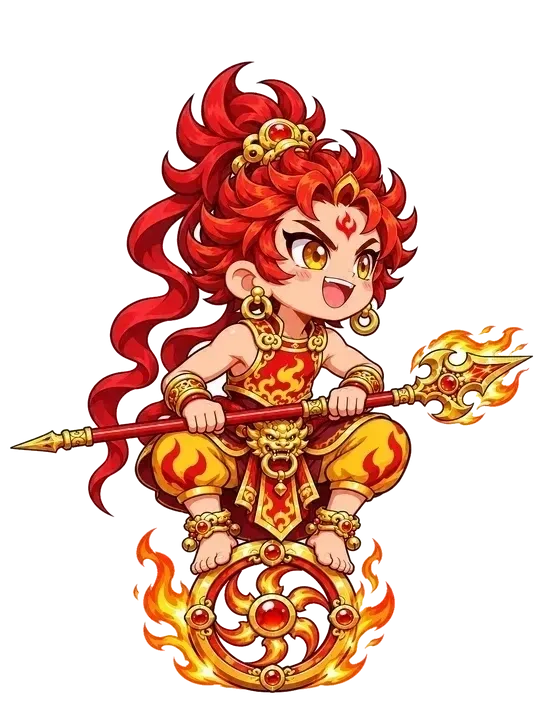
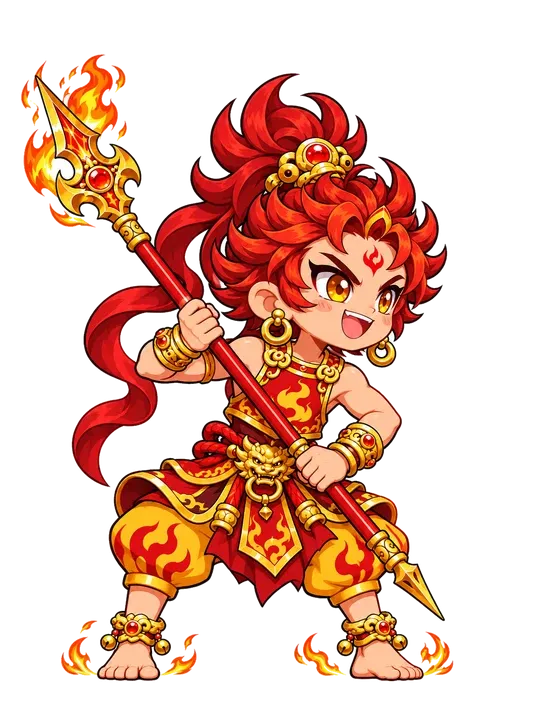
Sua Hong Hai Nhi dung nguyen tac (bo banh xe lua), sua Kim Giac

diff --git a/art/poses/hmeta.js b/art/poses/hmeta.js
@@ -1,1 +1,1 @@
-window.HPOSE = {"loichantu": {"H": 1201.8, "gnd": [660, 1395], "top": 0.015}, "thohanhton": {"H": 1196.0, "gnd": [512, 1387], "top": 0.033}, "thaiatchannhan": {"H": 1185.3, "gnd": [573, 1335], "top": 0.079}, "thancongbao": {"H": 1182.4, "gnd": [657, 1321], "top": 0.072}, "longnu": {"H": 1303.7, "gnd": [567, 1398], "top": 0.026}, "kimgiac": {"H": 1298.8, "gnd": [578, 1309], "top": 0.0}, "tieubachlong": {"H": 1265.8, "gnd": [517, 1412], "top": 0.018}, "thaibachkimtinh": {"H": 1135.9, "gnd": [604, 1321], "top": 0.106}, "culinhthan": {"H": 1254.2, "gnd": [575, 1394], "top": 0.026}, "hoangphongquai": {"H": 1087.4, "gnd": [479, 1364], "top": 0.026}, "khuongtanha": {"H": 1377.4, "gnd": [570, 1429], "top": 0.008}, "trieucongminh": {"H": 1368.7, "gnd": [572, 1420], "top": 0.007}, "bachcot": {"H": 1371.6, "gnd": [574, 1423], "top": 0.008}, "bodetosu": {"H": 1372.5, "gnd": [563, 1426], "top": 0.01}, "tranguyentu": {"H": 1327.9, "gnd": [551, 1403], "top": 0.025}, "hoangphiho": {"H": 1167.9, "gnd": [519, 1358], "top": 0.064}, "dienmau": {"H": 1308.5, "gnd": [543, 1398], "top": 0.035}, "thanhnguutinh": {"H": 1287.2, "gnd": [502, 1387], "top": 0.043}, "longvuong": {"H": 1262.0, "gnd": [591, 1418], "top": 0.01}, "dangthienngoc": {"H": 1246.5, "gnd": [535, 1378], "top": 0.066}, "kimtra": {"H": 1344.4, "gnd": [540, 1409], "top": 0.017}, "hachhung": {"H": 1286.2, "gnd": [533, 1387], "top": 0.047}, "thodia": {"H": 1212.5, "gnd": [479, 1341], "top": 0.066}, "giaochu": {"H": 1034.0, "gnd": [506, 1437], "top": 0.191}, "khongtuyen": {"H": 1276.5, "gnd": [568, 1423], "top": 0.019}, "nhiendang": {"H": 1207.6, "gnd": [467, 1367], "top": 0.026}, "thaisu": {"H": 1356.1, "gnd": [556, 1418], "top": 0.015}, "hoangmi": {"H": 1227.0, "gnd": [528, 1367], "top": 0.072}, "vanthu": {"H": 1276.5, "gnd": [538, 1395], "top": 0.015}, "quynhtieu": {"H": 1240.6, "gnd": [517, 1367], "top": 0.064}, "hoangthienhoa": {"H": 1375.5, "gnd": [555, 1432], "top": 0.012}, "viho": {"H": 1386.1, "gnd": [563, 1435], "top": 0.006}, "thachco": {"H": 1165.9, "gnd": [445, 1347], "top": 0.102}, "giaochu_s2": {"H": 1038, "gnd": [516, 1447], "top": 0.04}, "thailaoquan_s2": {"H": 1107, "gnd": [533, 1439], "top": 0.106}, "thailaoquan": {"H": 1106.8, "gnd": [534, 1439], "top": 0.164}, "hongquan": {"H": 1275.5, "gnd": [522, 1412], "top": 0.018}, "nguyenthuy": {"H": 1010.7, "gnd": [551, 1423], "top": 0.198}, "ngochoang": {"H": 1327.9, "gnd": [519, 1417], "top": 0.021}, "dilac": {"H": 1022.4, "gnd": [516, 1278], "top": 0.135}, "quangthanh": {"H": 1329.9, "gnd": [502, 1423], "top": 0.014}, "kimlinh": {"H": 1304.6, "gnd": [510, 1412], "top": 0.012}, "chanvu": {"H": 1107.7, "gnd": [557, 1338], "top": 0.086}, "vuongmau": {"H": 1330.8, "gnd": [502, 1417], "top": 0.011}, "phohien": {"H": 1318.2, "gnd": [465, 1418], "top": 0.003}, "daibang": {"H": 1179.5, "gnd": [489, 1361], "top": 0.04}, "ngocdinh": {"H": 1336.7, "gnd": [556, 1423], "top": 0.007}, "hoangbao": {"H": 1303.7, "gnd": [471, 1429], "top": 0.022}, "bachnhan": {"H": 1330.8, "gnd": [550, 1423], "top": 0.011}, "hattu": {"H": 1327.0, "gnd": [494, 1401], "top": 0.019}, "moctra": {"H": 1167.9, "gnd": [553, 1344], "top": 0.081}, "nganggiac": {"H": 1266.8, "gnd": [563, 1384], "top": 0.035}, "loicong": {"H": 1243.5, "gnd": [529, 1375], "top": 0.036}, "ngoctho": {"H": 1308.5, "gnd": [528, 1415], "top": 0.006}, "maonhat": {"H": 1223.2, "gnd": [535, 1360], "top": 0.028}, "linhcam": {"H": 1172.7, "gnd": [642, 1361], "top": 0.072}, "ngokhong": {"H": 1359.9, "gnd": [580, 1400], "top": 0.062}, "batgioi": {"H": 1476.0, "gnd": [615, 1421], "top": 0.017}, "nata": {"H": 1447.8, "gnd": [560, 1418], "top": 0.0}, "ngumavuong": {"H": 1306.8, "gnd": [620, 1410], "top": 0.012}, "honghainhi": {"H": 1260.4, "gnd": [560, 1405], "top": 0.0}, "quanam": {"H": 1144.3, "gnd": [560, 1440], "top": 0.0}, "datky": {"H": 1354.9, "gnd": [560, 1415], "top": 0.008}, "duongtang": {"H": 1434.5, "gnd": [570, 1410], "top": 0.012}, "duongtien": {"H": 1069.7, "gnd": [520, 1295], "top": 0.066}, "vantieu": {"H": 1401.3, "gnd": [560, 1415], "top": 0.006}, "satang": {"H": 1417.9, "gnd": [560, 1415], "top": 0.012}, "thietphien": {"H": 1369.8, "gnd": [560, 1416], "top": 0.015}, "litinh": {"H": 1353.2, "gnd": [560, 1416], "top": 0.007}, "hangnga": {"H": 1343.3, "gnd": [560, 1415], "top": 0.008}, "nuoa": {"H": 1243.5, "gnd": [532, 1361], "top": 0.023}, "tiepdan": {"H": 1124.2, "gnd": [545, 1359], "top": 0.075}, "chuande": {"H": 1261.0, "gnd": [458, 1425], "top": 0.039}, "nhulai": {"H": 1248.4, "gnd": [543, 1441], "top": 0.029}, "phuchy": {"H": 1245.5, "gnd": [496, 1381], "top": 0.04}, "thannong": {"H": 1194.1, "gnd": [496, 1358], "top": 0.066}, "hienvien": {"H": 1241.6, "gnd": [601, 1423], "top": 0.021}, "dabao": {"H": 1320.2, "gnd": [510, 1398], "top": 0.012}, "lucap": {"H": 1328.9, "gnd": [498, 1421], "top": 0.014}, "namcuc": {"H": 1113.6, "gnd": [599, 1299], "top": 0.052}, "diatang": {"H": 1133.0, "gnd": [581, 1319], "top": 0.073}, "lucnhi": {"H": 1300.8, "gnd": [500, 1398], "top": 0.025}, "cuukho": {"H": 1355.1, "gnd": [528, 1434], "top": 0.011}, "thanhsu": {"H": 1150.4, "gnd": [607, 1364], "top": 0.059}, "bachtuong": {"H": 1220.3, "gnd": [511, 1375], "top": 0.028}, "cuulinh": {"H": 1290.1, "gnd": [506, 1392], "top": 0.018}, "cuudau": {"H": 1291.1, "gnd": [535, 1397], "top": 0.03}, "bichtieu": {"H": 1245.5, "gnd": [501, 1370], "top": 0.037}, "magia": {"H": 1187.3, "gnd": [471, 1344], "top": 0.069}, "angiao": {"H": 1277.5, "gnd": [532, 1406], "top": 0.018}, "duongnham": {"H": 1256.1, "gnd": [448, 1387], "top": 0.036}, "vienhong": {"H": 1336.7, "gnd": [525, 1417], "top": 0.018}, "xichtinh": {"H": 1269.7, "gnd": [468, 1392], "top": 0.044}, "thanhhu": {"H": 1217.3, "gnd": [520, 1349], "top": 0.054}, "culuuton": {"H": 1240.6, "gnd": [481, 1381], "top": 0.047}, "linhcat": {"H": 1293.0, "gnd": [497, 1389], "top": 0.006}, "bilam": {"H": 1318.2, "gnd": [562, 1415], "top": 0.015}, "donghoa": {"H": 1295.0, "gnd": [532, 1403], "top": 0.015}, "vantrungtu": {"H": 1219.3, "gnd": [454, 1364], "top": 0.035}, "vuonglinhquan": {"H": 1358.0, "gnd": [575, 1423], "top": 0.012}, "hoangthientuong": {"H": 1312.4, "gnd": [532, 1406], "top": 0.028}, "nhuychantien": {"H": 1230.0, "gnd": [509, 1375], "top": 0.052}, "holuc": {"H": 1270.7, "gnd": [522, 1398], "top": 0.048}, "diadung": {"H": 1212.5, "gnd": [526, 1366], "top": 0.065}, "nhentinh": {"H": 1307.6, "gnd": [449, 1417], "top": 0.019}, "tenguu": {"H": 1149.5, "gnd": [603, 1324], "top": 0.079}, "ngaobinh": {"H": 1213.5, "gnd": [546, 1381], "top": 0.019}, "vodang": {"H": 1264.9, "gnd": [648, 1398], "top": 0.023}, "hongquan_s2": {"H": 1278.5, "gnd": [520, 1412], "top": 0.019}, "nguyenthuy_s2": {"H": 1105, "gnd": [551, 1447], "top": 0.106}, "nuoa_s2": {"H": 1247.4, "gnd": [530, 1361], "top": 0.022}, "tiepdan_s2": {"H": 1125.2, "gnd": [544, 1359], "top": 0.091}, "chuande_s2": {"H": 1269, "gnd": [460, 1423], "top": 0.029}, "nhulai_s2": {"H": 1248, "gnd": [540, 1447], "top": 0.028}, "loctinh": {"H": 1191.2, "gnd": [502, 1338], "top": 0.051}, "dalong": {"H": 1223.2, "gnd": [480, 1364], "top": 0.052}, "cuuvi": {"H": 1160.1, "gnd": [462, 1352], "top": 0.068}, "hoangsu": {"H": 1199.9, "gnd": [532, 1392], "top": 0.017}, "dethinh": {"H": 1356.1, "gnd": [560, 1435], "top": 0.011}, "thanhmao": {"H": 1300.8, "gnd": [588, 1432], "top": 0.011}, "laongoan": {"H": 1256.1, "gnd": [540, 1392], "top": 0.036}, "quylinh": {"H": 1327.9, "gnd": [515, 1409], "top": 0.017}, "duhoa": {"H": 1259.1, "gnd": [620, 1392], "top": 0.054}, "lunhac": {"H": 1227.0, "gnd": [447, 1397], "top": 0.057}, "hoalinh": {"H": 1184.4, "gnd": [483, 1384], "top": 0.01}, "latuyen": {"H": 1204.7, "gnd": [542, 1381], "top": 0.039}, "anhong": {"H": 1230.9, "gnd": [548, 1375], "top": 0.058}, "kimmaohong": {"H": 1175.6, "gnd": [468, 1349], "top": 0.059}, "nhithapbattu": {"H": 1264.9, "gnd": [536, 1401], "top": 0.019}, "maisonluc": {"H": 1270.7, "gnd": [440, 1381], "top": 0.036}, "thapthienquan": {"H": 1153.3, "gnd": [560, 1327], "top": 0.083}, "cuulongdaotuthanh": {"H": 1113.6, "gnd": [660, 1297], "top": 0.088}, "trinhluan": {"H": 1304.6, "gnd": [488, 1386], "top": 0.022}, "truongkhue": {"H": 1267.8, "gnd": [531, 1389], "top": 0.044}, "hongcam": {"H": 1312.4, "gnd": [546, 1421], "top": 0.017}, "dangcuucong": {"H": 1166.9, "gnd": [593, 1361], "top": 0.091}, "sunghachho": {"H": 1290.1, "gnd": [568, 1395], "top": 0.028}, "thapdienduong": {"H": 1253.2, "gnd": [533, 1375], "top": 0.036}, "nguytrung": {"H": 1200.9, "gnd": [493, 1378], "top": 0.059}, "phucloctho": {"H": 1352.2, "gnd": [530, 1423], "top": 0.015}, "daohanhthientoan": {"H": 1233.8, "gnd": [555, 1395], "top": 0.033}, "linhbaodaiphapsu": {"H": 1307.6, "gnd": [585, 1429], "top": 0.007}, "hoanglongchannhan": {"H": 1276.5, "gnd": [529, 1422], "top": 0.054}, "truongnhidinhquang": {"H": 1210.6, "gnd": [567, 1403], "top": 0.007}, "ovantien": {"H": 1168.8, "gnd": [571, 1355], "top": 0.084}, "thienlynhan": {"H": 1328.9, "gnd": [516, 1403], "top": 0.015}, "truongquephuong": {"H": 1295.0, "gnd": [494, 1378], "top": 0.018}, "manguyen": {"H": 1330.8, "gnd": [549, 1417], "top": 0.018}, "ovanhoa": {"H": 1356.1, "gnd": [551, 1435], "top": 0.008}, "longtuho": {"H": 1146.5, "gnd": [464, 1341], "top": 0.079}, "tayhailongvuong": {"H": 1251.3, "gnd": [544, 1389], "top": 0.015}, "nambaihailongvuong": {"H": 1286.2, "gnd": [524, 1395], "top": 0.019}, "tudainguyensoai": {"H": 1323.1, "gnd": [628, 1418], "top": 0.023}, "cuudieutinhquan": {"H": 1242.6, "gnd": [501, 1381], "top": 0.058}, "thatbatlahan": {"H": 1132.0, "gnd": [577, 1338], "top": 0.05}, "osaothienseu": {"H": 1281.4, "gnd": [505, 1412], "top": 0.004}, "anan": {"H": 1203.8, "gnd": [484, 1358], "top": 0.076}, "vanthanhlongvuong": {"H": 1252.3, "gnd": [528, 1370], "top": 0.033}, "thatdaithanh": {"H": 1235.8, "gnd": [528, 1380], "top": 0.044}, "dochanchannhan": {"H": 1240.6, "gnd": [561, 1367], "top": 0.044}, "tuythithattien": {"H": 1284.3, "gnd": [544, 1403], "top": 0.011}, "dunguyen": {"H": 1189.2, "gnd": [484, 1364], "top": 0.077}, "khaudan": {"H": 1247.4, "gnd": [554, 1341], "top": 0.032}, "handoclong": {"H": 1290.1, "gnd": [511, 1406], "top": 0.039}, "phonglam": {"H": 1174.7, "gnd": [573, 1364], "top": 0.068}, "tanhoan": {"H": 1178.5, "gnd": [640, 1364], "top": 0.081}, "lucdinhlucgiap": {"H": 1138.8, "gnd": [515, 1313], "top": 0.068}, "tycan": {"H": 1171.8, "gnd": [536, 1323], "top": 0.075}, "toho": {"H": 1132.0, "gnd": [462, 1308], "top": 0.054}, "hoangcon": {"H": 1145.6, "gnd": [519, 1305], "top": 0.08}, "baotinh": {"H": 1033.0, "gnd": [519, 1305], "top": 0.155}, "hungsonquan": {"H": 1040.8, "gnd": [533, 1304], "top": 0.145}, "thapbatcong": {"H": 1108.7, "gnd": [569, 1324], "top": 0.106}, "thoiphanquan": {"H": 1105.8, "gnd": [500, 1310], "top": 0.112}, "duongthaitong": {"H": 1170.8, "gnd": [567, 1326], "top": 0.073}, "nuvuongtayluong": {"H": 1333.8, "gnd": [537, 1426], "top": 0.007}, "sonthan": {"H": 1088.3, "gnd": [625, 1317], "top": 0.065}, "phongba": {"H": 1124.2, "gnd": [578, 1323], "top": 0.094}, "kinhhalongvuong": {"H": 1117.4, "gnd": [609, 1305], "top": 0.079}, "truvuong": {"H": 1230.9, "gnd": [504, 1338], "top": 0.025}, "coxuong": {"H": 1333.8, "gnd": [468, 1420], "top": 0.019}, "cophat": {"H": 1171.8, "gnd": [555, 1353], "top": 0.076}, "baapkhao": {"H": 1349.3, "gnd": [545, 1426], "top": 0.01}, "himy": {"H": 1134.9, "gnd": [515, 1322], "top": 0.09}, "phitrong": {"H": 1222.2, "gnd": [549, 1365], "top": 0.07}, "maisonthatquai": {"H": 1107.7, "gnd": [522, 1304], "top": 0.084}, "honthemavuong": {"H": 1184.4, "gnd": [239, 1398], "top": 0.083}, "ngocdiencongchua": {"H": 1115.5, "gnd": [528, 1324], "top": 0.09}, "thanhphongminhnguyet": {"H": 1208.6, "gnd": [518, 1350], "top": 0.062}, "langhutu": {"H": 1135.9, "gnd": [598, 1320], "top": 0.083}, "luubakham": {"H": 1272.6, "gnd": [490, 1395], "top": 0.037}, "thattiennu": {"H": 1272.6, "gnd": [471, 1384], "top": 0.043}, "xichcuoc": {"H": 1237.7, "gnd": [443, 1378], "top": 0.05}, "honglanmang": {"H": 1375.5, "gnd": [519, 1443], "top": 0.008}, "bachdienholy": {"H": 1317.3, "gnd": [459, 1417], "top": 0.01}, "bachhoatu": {"H": 1338.6, "gnd": [523, 1415], "top": 0.011}, "tranquangnhuy": {"H": 1148.5, "gnd": [600, 1338], "top": 0.101}, "vienthuthanh": {"H": 1299.8, "gnd": [553, 1420], "top": 0.011}, "bichthuykimtinhthu": {"H": 1166.9, "gnd": [536, 1328], "top": 0.065}, "namcungthich": {"H": 1338.6, "gnd": [507, 1429], "top": 0.021}, "khuonghoanghau": {"H": 1356.1, "gnd": [483, 1423], "top": 0.004}, "maiba": {"H": 1368.7, "gnd": [522, 1432], "top": 0.012}, "bachhacdongtu": {"H": 1224.1, "gnd": [531, 1384], "top": 0.066}};
+window.HPOSE = {"loichantu": {"H": 1201.8, "gnd": [660, 1395], "top": 0.015}, "thohanhton": {"H": 1196.0, "gnd": [512, 1387], "top": 0.033}, "thaiatchannhan": {"H": 1185.3, "gnd": [573, 1335], "top": 0.079}, "thancongbao": {"H": 1182.4, "gnd": [657, 1321], "top": 0.072}, "longnu": {"H": 1303.7, "gnd": [567, 1398], "top": 0.026}, "kimgiac": {"H": 1298.8, "gnd": [578, 1309], "top": 0.033}, "tieubachlong": {"H": 1265.8, "gnd": [517, 1412], "top": 0.018}, "thaibachkimtinh": {"H": 1135.9, "gnd": [604, 1321], "top": 0.106}, "culinhthan": {"H": 1254.2, "gnd": [575, 1394], "top": 0.026}, "hoangphongquai": {"H": 1087.4, "gnd": [479, 1364], "top": 0.026}, "khuongtanha": {"H": 1377.4, "gnd": [570, 1429], "top": 0.008}, "trieucongminh": {"H": 1368.7, "gnd": [572, 1420], "top": 0.007}, "bachcot": {"H": 1371.6, "gnd": [574, 1423], "top": 0.008}, "bodetosu": {"H": 1372.5, "gnd": [563, 1426], "top": 0.01}, "tranguyentu": {"H": 1327.9, "gnd": [551, 1403], "top": 0.025}, "hoangphiho": {"H": 1167.9, "gnd": [519, 1358], "top": 0.064}, "dienmau": {"H": 1308.5, "gnd": [543, 1398], "top": 0.035}, "thanhnguutinh": {"H": 1287.2, "gnd": [502, 1387], "top": 0.043}, "longvuong": {"H": 1262.0, "gnd": [591, 1418], "top": 0.01}, "dangthienngoc": {"H": 1246.5, "gnd": [535, 1378], "top": 0.066}, "kimtra": {"H": 1344.4, "gnd": [540, 1409], "top": 0.017}, "hachhung": {"H": 1286.2, "gnd": [533, 1387], "top": 0.047}, "thodia": {"H": 1212.5, "gnd": [479, 1341], "top": 0.066}, "giaochu": {"H": 1034.0, "gnd": [506, 1437], "top": 0.191}, "khongtuyen": {"H": 1276.5, "gnd": [568, 1423], "top": 0.019}, "nhiendang": {"H": 1207.6, "gnd": [467, 1367], "top": 0.026}, "thaisu": {"H": 1356.1, "gnd": [556, 1418], "top": 0.015}, "hoangmi": {"H": 1227.0, "gnd": [528, 1367], "top": 0.072}, "vanthu": {"H": 1276.5, "gnd": [538, 1395], "top": 0.015}, "quynhtieu": {"H": 1240.6, "gnd": [517, 1367], "top": 0.064}, "hoangthienhoa": {"H": 1375.5, "gnd": [555, 1432], "top": 0.012}, "viho": {"H": 1386.1, "gnd": [563, 1435], "top": 0.006}, "thachco": {"H": 1165.9, "gnd": [445, 1347], "top": 0.102}, "giaochu_s2": {"H": 1038, "gnd": [516, 1447], "top": 0.04}, "thailaoquan_s2": {"H": 1107, "gnd": [533, 1439], "top": 0.106}, "thailaoquan": {"H": 1106.8, "gnd": [534, 1439], "top": 0.164}, "hongquan": {"H": 1275.5, "gnd": [522, 1412], "top": 0.018}, "nguyenthuy": {"H": 1010.7, "gnd": [551, 1423], "top": 0.198}, "ngochoang": {"H": 1327.9, "gnd": [519, 1417], "top": 0.021}, "dilac": {"H": 1022.4, "gnd": [516, 1278], "top": 0.135}, "quangthanh": {"H": 1329.9, "gnd": [502, 1423], "top": 0.014}, "kimlinh": {"H": 1304.6, "gnd": [510, 1412], "top": 0.012}, "chanvu": {"H": 1107.7, "gnd": [557, 1338], "top": 0.086}, "vuongmau": {"H": 1330.8, "gnd": [502, 1417], "top": 0.011}, "phohien": {"H": 1318.2, "gnd": [465, 1418], "top": 0.003}, "daibang": {"H": 1179.5, "gnd": [489, 1361], "top": 0.04}, "ngocdinh": {"H": 1336.7, "gnd": [556, 1423], "top": 0.007}, "hoangbao": {"H": 1303.7, "gnd": [471, 1429], "top": 0.022}, "bachnhan": {"H": 1330.8, "gnd": [550, 1423], "top": 0.011}, "hattu": {"H": 1327.0, "gnd": [494, 1401], "top": 0.019}, "moctra": {"H": 1167.9, "gnd": [553, 1344], "top": 0.081}, "nganggiac": {"H": 1266.8, "gnd": [563, 1384], "top": 0.035}, "loicong": {"H": 1243.5, "gnd": [529, 1375], "top": 0.036}, "ngoctho": {"H": 1308.5, "gnd": [528, 1415], "top": 0.006}, "maonhat": {"H": 1223.2, "gnd": [535, 1360], "top": 0.028}, "linhcam": {"H": 1172.7, "gnd": [642, 1361], "top": 0.072}, "ngokhong": {"H": 1359.9, "gnd": [580, 1400], "top": 0.062}, "batgioi": {"H": 1476.0, "gnd": [615, 1421], "top": 0.017}, "nata": {"H": 1447.8, "gnd": [560, 1418], "top": 0.0}, "ngumavuong": {"H": 1306.8, "gnd": [620, 1410], "top": 0.012}, "honghainhi": {"H": 1260.4, "gnd": [560, 1405], "top": 0.001}, "quanam": {"H": 1144.3, "gnd": [560, 1440], "top": 0.0}, "datky": {"H": 1354.9, "gnd": [560, 1415], "top": 0.008}, "duongtang": {"H": 1434.5, "gnd": [570, 1410], "top": 0.012}, "duongtien": {"H": 1069.7, "gnd": [520, 1295], "top": 0.066}, "vantieu": {"H": 1401.3, "gnd": [560, 1415], "top": 0.006}, "satang": {"H": 1417.9, "gnd": [560, 1415], "top": 0.012}, "thietphien": {"H": 1369.8, "gnd": [560, 1416], "top": 0.015}, "litinh": {"H": 1353.2, "gnd": [560, 1416], "top": 0.007}, "hangnga": {"H": 1343.3, "gnd": [560, 1415], "top": 0.008}, "nuoa": {"H": 1243.5, "gnd": [532, 1361], "top": 0.023}, "tiepdan": {"H": 1124.2, "gnd": [545, 1359], "top": 0.075}, "chuande": {"H": 1261.0, "gnd": [458, 1425], "top": 0.039}, "nhulai": {"H": 1248.4, "gnd": [543, 1441], "top": 0.029}, "phuchy": {"H": 1245.5, "gnd": [496, 1381], "top": 0.04}, "thannong": {"H": 1194.1, "gnd": [496, 1358], "top": 0.066}, "hienvien": {"H": 1241.6, "gnd": [601, 1423], "top": 0.021}, "dabao": {"H": 1320.2, "gnd": [510, 1398], "top": 0.012}, "lucap": {"H": 1328.9, "gnd": [498, 1421], "top": 0.014}, "namcuc": {"H": 1113.6, "gnd": [599, 1299], "top": 0.052}, "diatang": {"H": 1133.0, "gnd": [581, 1319], "top": 0.073}, "lucnhi": {"H": 1300.8, "gnd": [500, 1398], "top": 0.025}, "cuukho": {"H": 1355.1, "gnd": [528, 1434], "top": 0.011}, "thanhsu": {"H": 1150.4, "gnd": [607, 1364], "top": 0.059}, "bachtuong": {"H": 1220.3, "gnd": [511, 1375], "top": 0.028}, "cuulinh": {"H": 1290.1, "gnd": [506, 1392], "top": 0.018}, "cuudau": {"H": 1291.1, "gnd": [535, 1397], "top": 0.03}, "bichtieu": {"H": 1245.5, "gnd": [501, 1370], "top": 0.037}, "magia": {"H": 1187.3, "gnd": [471, 1344], "top": 0.069}, "angiao": {"H": 1277.5, "gnd": [532, 1406], "top": 0.018}, "duongnham": {"H": 1256.1, "gnd": [448, 1387], "top": 0.036}, "vienhong": {"H": 1336.7, "gnd": [525, 1417], "top": 0.018}, "xichtinh": {"H": 1269.7, "gnd": [468, 1392], "top": 0.044}, "thanhhu": {"H": 1217.3, "gnd": [520, 1349], "top": 0.054}, "culuuton": {"H": 1240.6, "gnd": [481, 1381], "top": 0.047}, "linhcat": {"H": 1293.0, "gnd": [497, 1389], "top": 0.006}, "bilam": {"H": 1318.2, "gnd": [562, 1415], "top": 0.015}, "donghoa": {"H": 1295.0, "gnd": [532, 1403], "top": 0.015}, "vantrungtu": {"H": 1219.3, "gnd": [454, 1364], "top": 0.035}, "vuonglinhquan": {"H": 1358.0, "gnd": [575, 1423], "top": 0.012}, "hoangthientuong": {"H": 1312.4, "gnd": [532, 1406], "top": 0.028}, "nhuychantien": {"H": 1230.0, "gnd": [509, 1375], "top": 0.052}, "holuc": {"H": 1270.7, "gnd": [522, 1398], "top": 0.048}, "diadung": {"H": 1212.5, "gnd": [526, 1366], "top": 0.065}, "nhentinh": {"H": 1307.6, "gnd": [449, 1417], "top": 0.019}, "tenguu": {"H": 1149.5, "gnd": [603, 1324], "top": 0.079}, "ngaobinh": {"H": 1213.5, "gnd": [546, 1381], "top": 0.019}, "vodang": {"H": 1264.9, "gnd": [648, 1398], "top": 0.023}, "hongquan_s2": {"H": 1278.5, "gnd": [520, 1412], "top": 0.019}, "nguyenthuy_s2": {"H": 1105, "gnd": [551, 1447], "top": 0.106}, "nuoa_s2": {"H": 1247.4, "gnd": [530, 1361], "top": 0.022}, "tiepdan_s2": {"H": 1125.2, "gnd": [544, 1359], "top": 0.091}, "chuande_s2": {"H": 1269, "gnd": [460, 1423], "top": 0.029}, "nhulai_s2": {"H": 1248, "gnd": [540, 1447], "top": 0.028}, "loctinh": {"H": 1191.2, "gnd": [502, 1338], "top": 0.051}, "dalong": {"H": 1223.2, "gnd": [480, 1364], "top": 0.052}, "cuuvi": {"H": 1160.1, "gnd": [462, 1352], "top": 0.068}, "hoangsu": {"H": 1199.9, "gnd": [532, 1392], "top": 0.017}, "dethinh": {"H": 1356.1, "gnd": [560, 1435], "top": 0.011}, "thanhmao": {"H": 1300.8, "gnd": [588, 1432], "top": 0.011}, "laongoan": {"H": 1256.1, "gnd": [540, 1392], "top": 0.036}, "quylinh": {"H": 1327.9, "gnd": [515, 1409], "top": 0.017}, "duhoa": {"H": 1259.1, "gnd": [620, 1392], "top": 0.054}, "lunhac": {"H": 1227.0, "gnd": [447, 1397], "top": 0.057}, "hoalinh": {"H": 1184.4, "gnd": [483, 1384], "top": 0.01}, "latuyen": {"H": 1204.7, "gnd": [542, 1381], "top": 0.039}, "anhong": {"H": 1230.9, "gnd": [548, 1375], "top": 0.058}, "kimmaohong": {"H": 1175.6, "gnd": [468, 1349], "top": 0.059}, "nhithapbattu": {"H": 1264.9, "gnd": [536, 1401], "top": 0.019}, "maisonluc": {"H": 1270.7, "gnd": [440, 1381], "top": 0.036}, "thapthienquan": {"H": 1153.3, "gnd": [560, 1327], "top": 0.083}, "cuulongdaotuthanh": {"H": 1113.6, "gnd": [660, 1297], "top": 0.088}, "trinhluan": {"H": 1304.6, "gnd": [488, 1386], "top": 0.022}, "truongkhue": {"H": 1267.8, "gnd": [531, 1389], "top": 0.044}, "hongcam": {"H": 1312.4, "gnd": [546, 1421], "top": 0.017}, "dangcuucong": {"H": 1166.9, "gnd": [593, 1361], "top": 0.091}, "sunghachho": {"H": 1290.1, "gnd": [568, 1395], "top": 0.028}, "thapdienduong": {"H": 1253.2, "gnd": [533, 1375], "top": 0.036}, "nguytrung": {"H": 1200.9, "gnd": [493, 1378], "top": 0.059}, "phucloctho": {"H": 1352.2, "gnd": [530, 1423], "top": 0.015}, "daohanhthientoan": {"H": 1233.8, "gnd": [555, 1395], "top": 0.033}, "linhbaodaiphapsu": {"H": 1307.6, "gnd": [585, 1429], "top": 0.007}, "hoanglongchannhan": {"H": 1276.5, "gnd": [529, 1422], "top": 0.054}, "truongnhidinhquang": {"H": 1210.6, "gnd": [567, 1403], "top": 0.007}, "ovantien": {"H": 1168.8, "gnd": [571, 1355], "top": 0.084}, "thienlynhan": {"H": 1328.9, "gnd": [516, 1403], "top": 0.015}, "truongquephuong": {"H": 1295.0, "gnd": [494, 1378], "top": 0.018}, "manguyen": {"H": 1330.8, "gnd": [549, 1417], "top": 0.018}, "ovanhoa": {"H": 1356.1, "gnd": [551, 1435], "top": 0.008}, "longtuho": {"H": 1146.5, "gnd": [464, 1341], "top": 0.079}, "tayhailongvuong": {"H": 1251.3, "gnd": [544, 1389], "top": 0.015}, "nambaihailongvuong": {"H": 1286.2, "gnd": [524, 1395], "top": 0.019}, "tudainguyensoai": {"H": 1323.1, "gnd": [628, 1418], "top": 0.023}, "cuudieutinhquan": {"H": 1242.6, "gnd": [501, 1381], "top": 0.058}, "thatbatlahan": {"H": 1132.0, "gnd": [577, 1338], "top": 0.05}, "osaothienseu": {"H": 1281.4, "gnd": [505, 1412], "top": 0.004}, "anan": {"H": 1203.8, "gnd": [484, 1358], "top": 0.076}, "vanthanhlongvuong": {"H": 1252.3, "gnd": [528, 1370], "top": 0.033}, "thatdaithanh": {"H": 1235.8, "gnd": [528, 1380], "top": 0.044}, "dochanchannhan": {"H": 1240.6, "gnd": [561, 1367], "top": 0.044}, "tuythithattien": {"H": 1284.3, "gnd": [544, 1403], "top": 0.011}, "dunguyen": {"H": 1189.2, "gnd": [484, 1364], "top": 0.077}, "khaudan": {"H": 1247.4, "gnd": [554, 1341], "top": 0.032}, "handoclong": {"H": 1290.1, "gnd": [511, 1406], "top": 0.039}, "phonglam": {"H": 1174.7, "gnd": [573, 1364], "top": 0.068}, "tanhoan": {"H": 1178.5, "gnd": [640, 1364], "top": 0.081}, "lucdinhlucgiap": {"H": 1138.8, "gnd": [515, 1313], "top": 0.068}, "tycan": {"H": 1171.8, "gnd": [536, 1323], "top": 0.075}, "toho": {"H": 1132.0, "gnd": [462, 1308], "top": 0.054}, "hoangcon": {"H": 1145.6, "gnd": [519, 1305], "top": 0.08}, "baotinh": {"H": 1033.0, "gnd": [519, 1305], "top": 0.155}, "hungsonquan": {"H": 1040.8, "gnd": [533, 1304], "top": 0.145}, "thapbatcong": {"H": 1108.7, "gnd": [569, 1324], "top": 0.106}, "thoiphanquan": {"H": 1105.8, "gnd": [500, 1310], "top": 0.112}, "duongthaitong": {"H": 1170.8, "gnd": [567, 1326], "top": 0.073}, "nuvuongtayluong": {"H": 1333.8, "gnd": [537, 1426], "top": 0.007}, "sonthan": {"H": 1088.3, "gnd": [625, 1317], "top": 0.065}, "phongba": {"H": 1124.2, "gnd": [578, 1323], "top": 0.094}, "kinhhalongvuong": {"H": 1117.4, "gnd": [609, 1305], "top": 0.079}, "truvuong": {"H": 1230.9, "gnd": [504, 1338], "top": 0.025}, "coxuong": {"H": 1333.8, "gnd": [468, 1420], "top": 0.019}, "cophat": {"H": 1171.8, "gnd": [555, 1353], "top": 0.076}, "baapkhao": {"H": 1349.3, "gnd": [545, 1426], "top": 0.01}, "himy": {"H": 1134.9, "gnd": [515, 1322], "top": 0.09}, "phitrong": {"H": 1222.2, "gnd": [549, 1365], "top": 0.07}, "maisonthatquai": {"H": 1107.7, "gnd": [522, 1304], "top": 0.084}, "honthemavuong": {"H": 1184.4, "gnd": [239, 1398], "top": 0.083}, "ngocdiencongchua": {"H": 1115.5, "gnd": [528, 1324], "top": 0.09}, "thanhphongminhnguyet": {"H": 1208.6, "gnd": [518, 1350], "top": 0.062}, "langhutu": {"H": 1135.9, "gnd": [598, 1320], "top": 0.083}, "luubakham": {"H": 1272.6, "gnd": [490, 1395], "top": 0.037}, "thattiennu": {"H": 1272.6, "gnd": [471, 1384], "top": 0.043}, "xichcuoc": {"H": 1237.7, "gnd": [443, 1378], "top": 0.05}, "honglanmang": {"H": 1375.5, "gnd": [519, 1443], "top": 0.008}, "bachdienholy": {"H": 1317.3, "gnd": [459, 1417], "top": 0.01}, "bachhoatu": {"H": 1338.6, "gnd": [523, 1415], "top": 0.011}, "tranquangnhuy": {"H": 1148.5, "gnd": [600, 1338], "top": 0.101}, "vienthuthanh": {"H": 1299.8, "gnd": [553, 1420], "top": 0.011}, "bichthuykimtinhthu": {"H": 1166.9, "gnd": [536, 1328], "top": 0.065}, "namcungthich": {"H": 1338.6, "gnd": [507, 1429], "top": 0.021}, "khuonghoanghau": {"H": 1356.1, "gnd": [483, 1423], "top": 0.004}, "maiba": {"H": 1368.7, "gnd": [522, 1432], "top": 0.012}, "bachhacdongtu": {"H": 1224.1, "gnd": [531, 1384], "top": 0.066}};

diff --git a/index.html b/index.html
@@ -14,26 +14,26 @@
 <link rel="preconnect" href="https://fonts.googleapis.com">
 <link rel="preconnect" href="https://fonts.gstatic.com" crossorigin>
 <link href="https://fonts.googleapis.com/css2?family=Baloo+2:wght@500;600;700;800&family=Dancing+Script:wght@700&display=swap" rel="stylesheet">
-<link rel="stylesheet" href="css/style.css?v=1795879606">
-<link rel="stylesheet" href="css/themes.css?v=1795879606">
+<link rel="stylesheet" href="css/style.css?v=1795880530">
+<link rel="stylesheet" href="css/themes.css?v=1795880530">
 </head>
 <body>
 <div id="app">
   <canvas id="game"></canvas>
   <div id="ui"></div>
 </div>
-<script src="js/data.js?v=1795879606"></script><script src="art/enemies/meta.js?v=1795879606"></script><script src="art/ssrfx/aura_c.js?v=1795879606"></script>
-  <script src="art/poses/hmeta.js?v=1795879606"></script>
-<script src="js/art.js?v=1795879606"></script>
-<script src="art/anim/manifest.js?v=1795879606"></script>
-<script src="js/rig.js?v=1795879606"></script>
-<script src="art/rig/all.js?v=1795879606"></script>
-<script src="js/layered.js?v=1795879606"></script>
-<script src="art/mesh/index.js?v=1795879606"></script>
-<script src="js/meshrig.js?v=1795879606"></script>
-<script src="art/skel/index.js?v=1795879606"></script>
-<script src="js/skel.js?v=1795879606"></script>
-<script src="js/vfx.js?v=1795879606"></script>
-<script src="js/main.js?v=1795879606"></script>
+<script src="js/data.js?v=1795880530"></script><script src="art/enemies/meta.js?v=1795880530"></script><script src="art/ssrfx/aura_c.js?v=1795880530"></script>
+  <script src="art/poses/hmeta.js?v=1795880530"></script>
+<script src="js/art.js?v=1795880530"></script>
+<script src="art/anim/manifest.js?v=1795880530"></script>
+<script src="js/rig.js?v=1795880530"></script>
+<script src="art/rig/all.js?v=1795880530"></script>
+<script src="js/layered.js?v=1795880530"></script>
+<script src="art/mesh/index.js?v=1795880530"></script>
+<script src="js/meshrig.js?v=1795880530"></script>
+<script src="art/skel/index.js?v=1795880530"></script>
+<script src="js/skel.js?v=1795880530"></script>
+<script src="js/vfx.js?v=1795880530"></script>
+<script src="js/main.js?v=1795880530"></script>
 </body>
 </html>

diff --git a/sw.js b/sw.js
@@ -1,5 +1,5 @@
 // Bộ nhớ đệm: ảnh/âm thanh lấy từ máy ngay (cập nhật ngầm để lần sau có bản mới); html luôn lấy mạng trước.
-const C = 'ttdc-v8';   // tăng số này mỗi khi sửa hàng loạt ảnh: máy người chơi bỏ bản ảnh cũ trong bộ nhớ đệm, tải bản mới ngay lần mở đầu
+const C = 'ttdc-v9';   // tăng số này mỗi khi sửa hàng loạt ảnh: máy người chơi bỏ bản ảnh cũ trong bộ nhớ đệm, tải bản mới ngay lần mở đầu
 self.addEventListener('install', e => self.skipWaiting());
 self.addEventListener('activate', e => e.waitUntil(caches.keys().then(ks => Promise.all(ks.filter(k => k !== C).map(k => caches.delete(k)))).then(() => self.clients.claim())));
 self.addEventListener('fetch', e => {
